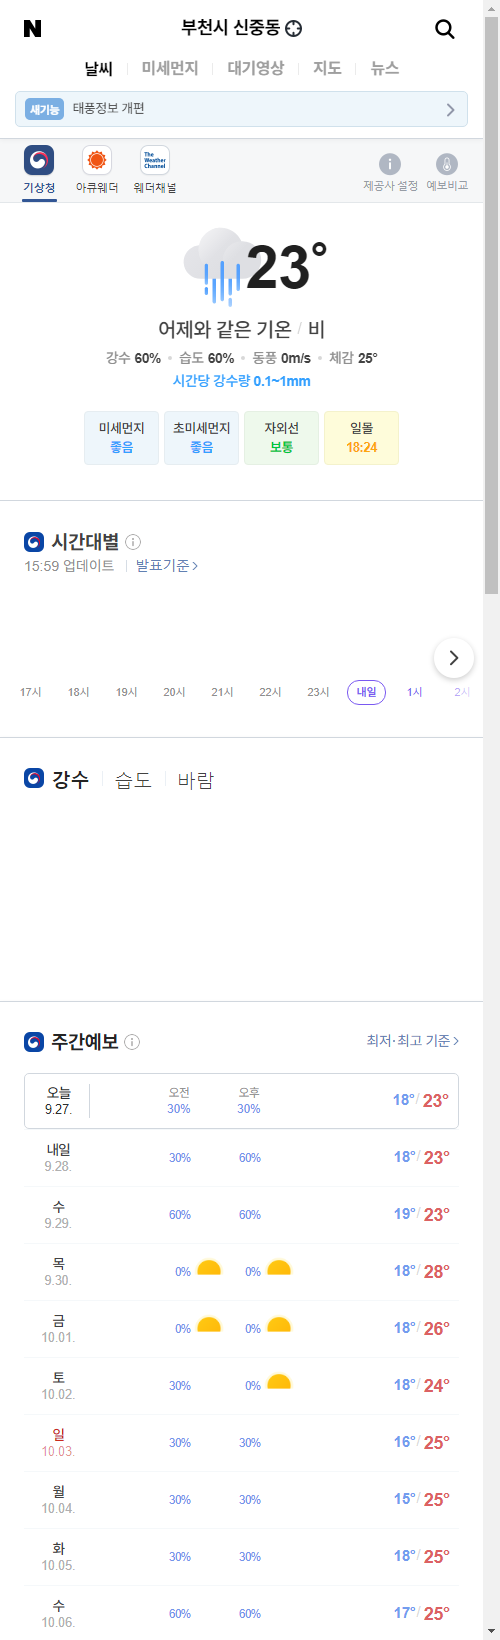
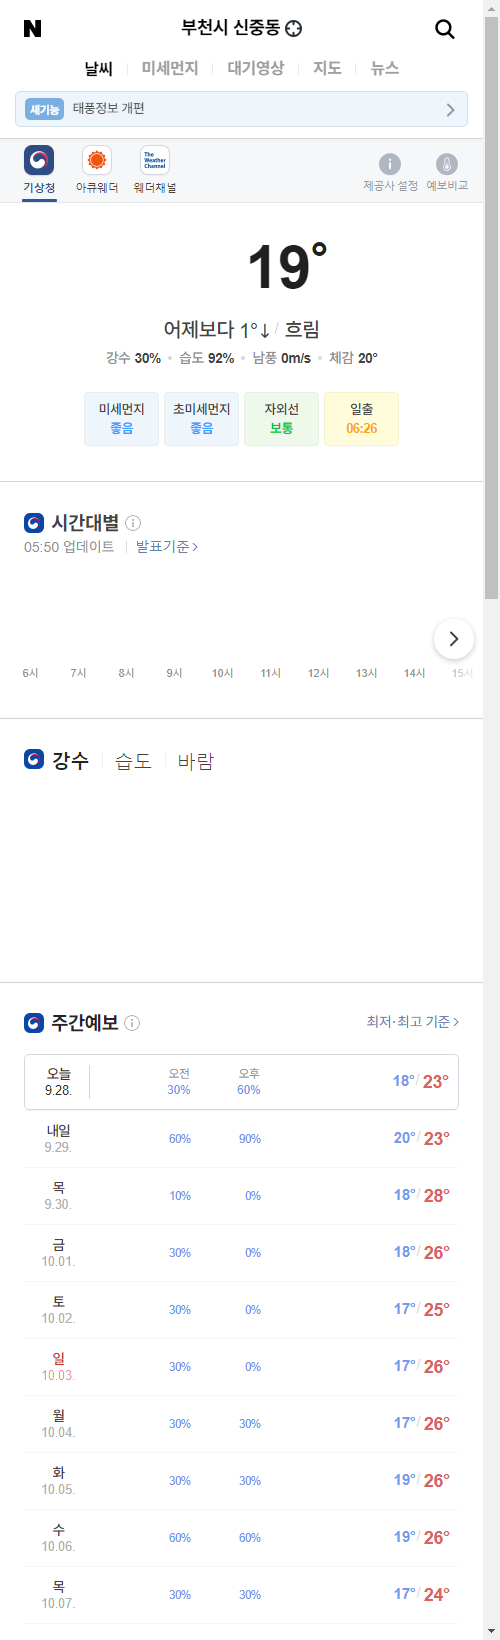
update result

diff --git a/README.md b/README.md
@@ -1,5 +1,5 @@
-##  2021-09-27 16:02:54   월요일 
-##### 날씨   -   어제와 같은 기온비  
+##  2021-09-28 05:54:54   화요일 
+##### 날씨   -   어제보다 1° 낮아요흐림  
 <center><img src="../img/naver_weather_week.png"></center>
 ----
 ----
@@ -13,17 +13,17 @@
 ##### 세계
 <table border="1" bordercolor="blue" align = "center" >
 <tr align = "right" > <td>Item</td><td>Point</td><td>Diff</td><td>Rate</td><td>Buy</td><td>Sell</td><td>...</td>  </tr>
-<tr align = "right" > <td>DOW</td><td>34,798.0</td><td>33.18</td><td><font size="3" color="red" >0.1%</font></td><td><font size="3" color="black">0</font></td><td><font size="3" color="black">0</font></td><td>0</td>  </tr>
-<tr align = "right" > <td>NASDAQ</td><td>15,047.7</td><td>-4.54</td><td><font size="3" color="blue" >-0.03%</font></td><td><font size="3" color="black">0</font></td><td><font size="3" color="black">0</font></td><td>0</td>  </tr>
-<tr align = "right" > <td>S&P</td><td>4,455.48</td><td>6.5</td><td><font size="3" color="red" >0.15%</font></td><td><font size="3" color="black">0</font></td><td><font size="3" color="black">0</font></td><td>0</td>  </tr>
-<tr align = "right" > <td>SHANHAI</td><td>3,579.64</td><td>-33.43</td><td><font size="3" color="blue" >-0.93%</font></td><td><font size="3" color="black">0</font></td><td><font size="3" color="black">0</font></td><td>0</td>  </tr>
-<tr align = "right" > <td>INDIA</td><td>60,123.84</td><td>75.37</td><td><font size="3" color="red" >0.13%</font></td><td><font size="3" color="black">0</font></td><td><font size="3" color="black">0</font></td><td>0</td>  </tr>
+<tr align = "right" > <td>DOW</td><td>34,869.37</td><td>71.37</td><td><font size="3" color="red" >0.21%</font></td><td><font size="3" color="black">0</font></td><td><font size="3" color="black">0</font></td><td>0</td>  </tr>
+<tr align = "right" > <td>NASDAQ</td><td>14,969.97</td><td>-77.73</td><td><font size="3" color="blue" >-0.52%</font></td><td><font size="3" color="black">0</font></td><td><font size="3" color="black">0</font></td><td>0</td>  </tr>
+<tr align = "right" > <td>S&P</td><td>4,443.11</td><td>-12.37</td><td><font size="3" color="blue" >-0.28%</font></td><td><font size="3" color="black">0</font></td><td><font size="3" color="black">0</font></td><td>0</td>  </tr>
+<tr align = "right" > <td>SHANHAI</td><td>3,582.83</td><td>-30.24</td><td><font size="3" color="blue" >-0.84%</font></td><td><font size="3" color="black">0</font></td><td><font size="3" color="black">0</font></td><td>0</td>  </tr>
+<tr align = "right" > <td>INDIA</td><td>60,077.88</td><td>29.41</td><td><font size="3" color="red" >0.05%</font></td><td><font size="3" color="black">0</font></td><td><font size="3" color="black">0</font></td><td>0</td>  </tr>
 </table>
 ----
 ##### 시장
 <table border="1" bordercolor="blue" align = "center" >
 <tr align = "right" > <td>Item</td><td>Price</td><td>Diff</td><td>Rate</td><td>Buy</td><td>Sell</td><td>...</td>  </tr>
-<tr align = "right" > <td>USD</td><td>1,177.0</td><td>-0.5</td><td><font size="3" color="blue">-0.04%</font></td><td><font size="3" color="black">1,110</font></td><td><font size="3" color="black">0</font></td><td>0</td>  </tr>
+<tr align = "right" > <td>USD</td><td>1,181.0</td><td>3.0</td><td><font size="3" color="red">0.25%</font></td><td><font size="3" color="black">1,110</font></td><td><font size="3" color="black">0</font></td><td>0</td>  </tr>
 <tr align = "right" > <td>WTI</td><td>73.98</td><td>0.68</td><td><font size="3" color="red">0.92%</font></td><td><font size="3" color="black">29.0</font></td><td><font size="3" color="black">0</font></td><td>0</td>  </tr>
 <tr align = "right" > <td>GOLD</td><td>1,749.0</td><td>2.0</td><td><font size="3" color="red">0.11%</font></td><td><font size="3" color="black">0</font></td><td><font size="3" color="black">0</font></td><td>0</td>  </tr>
 </table>
